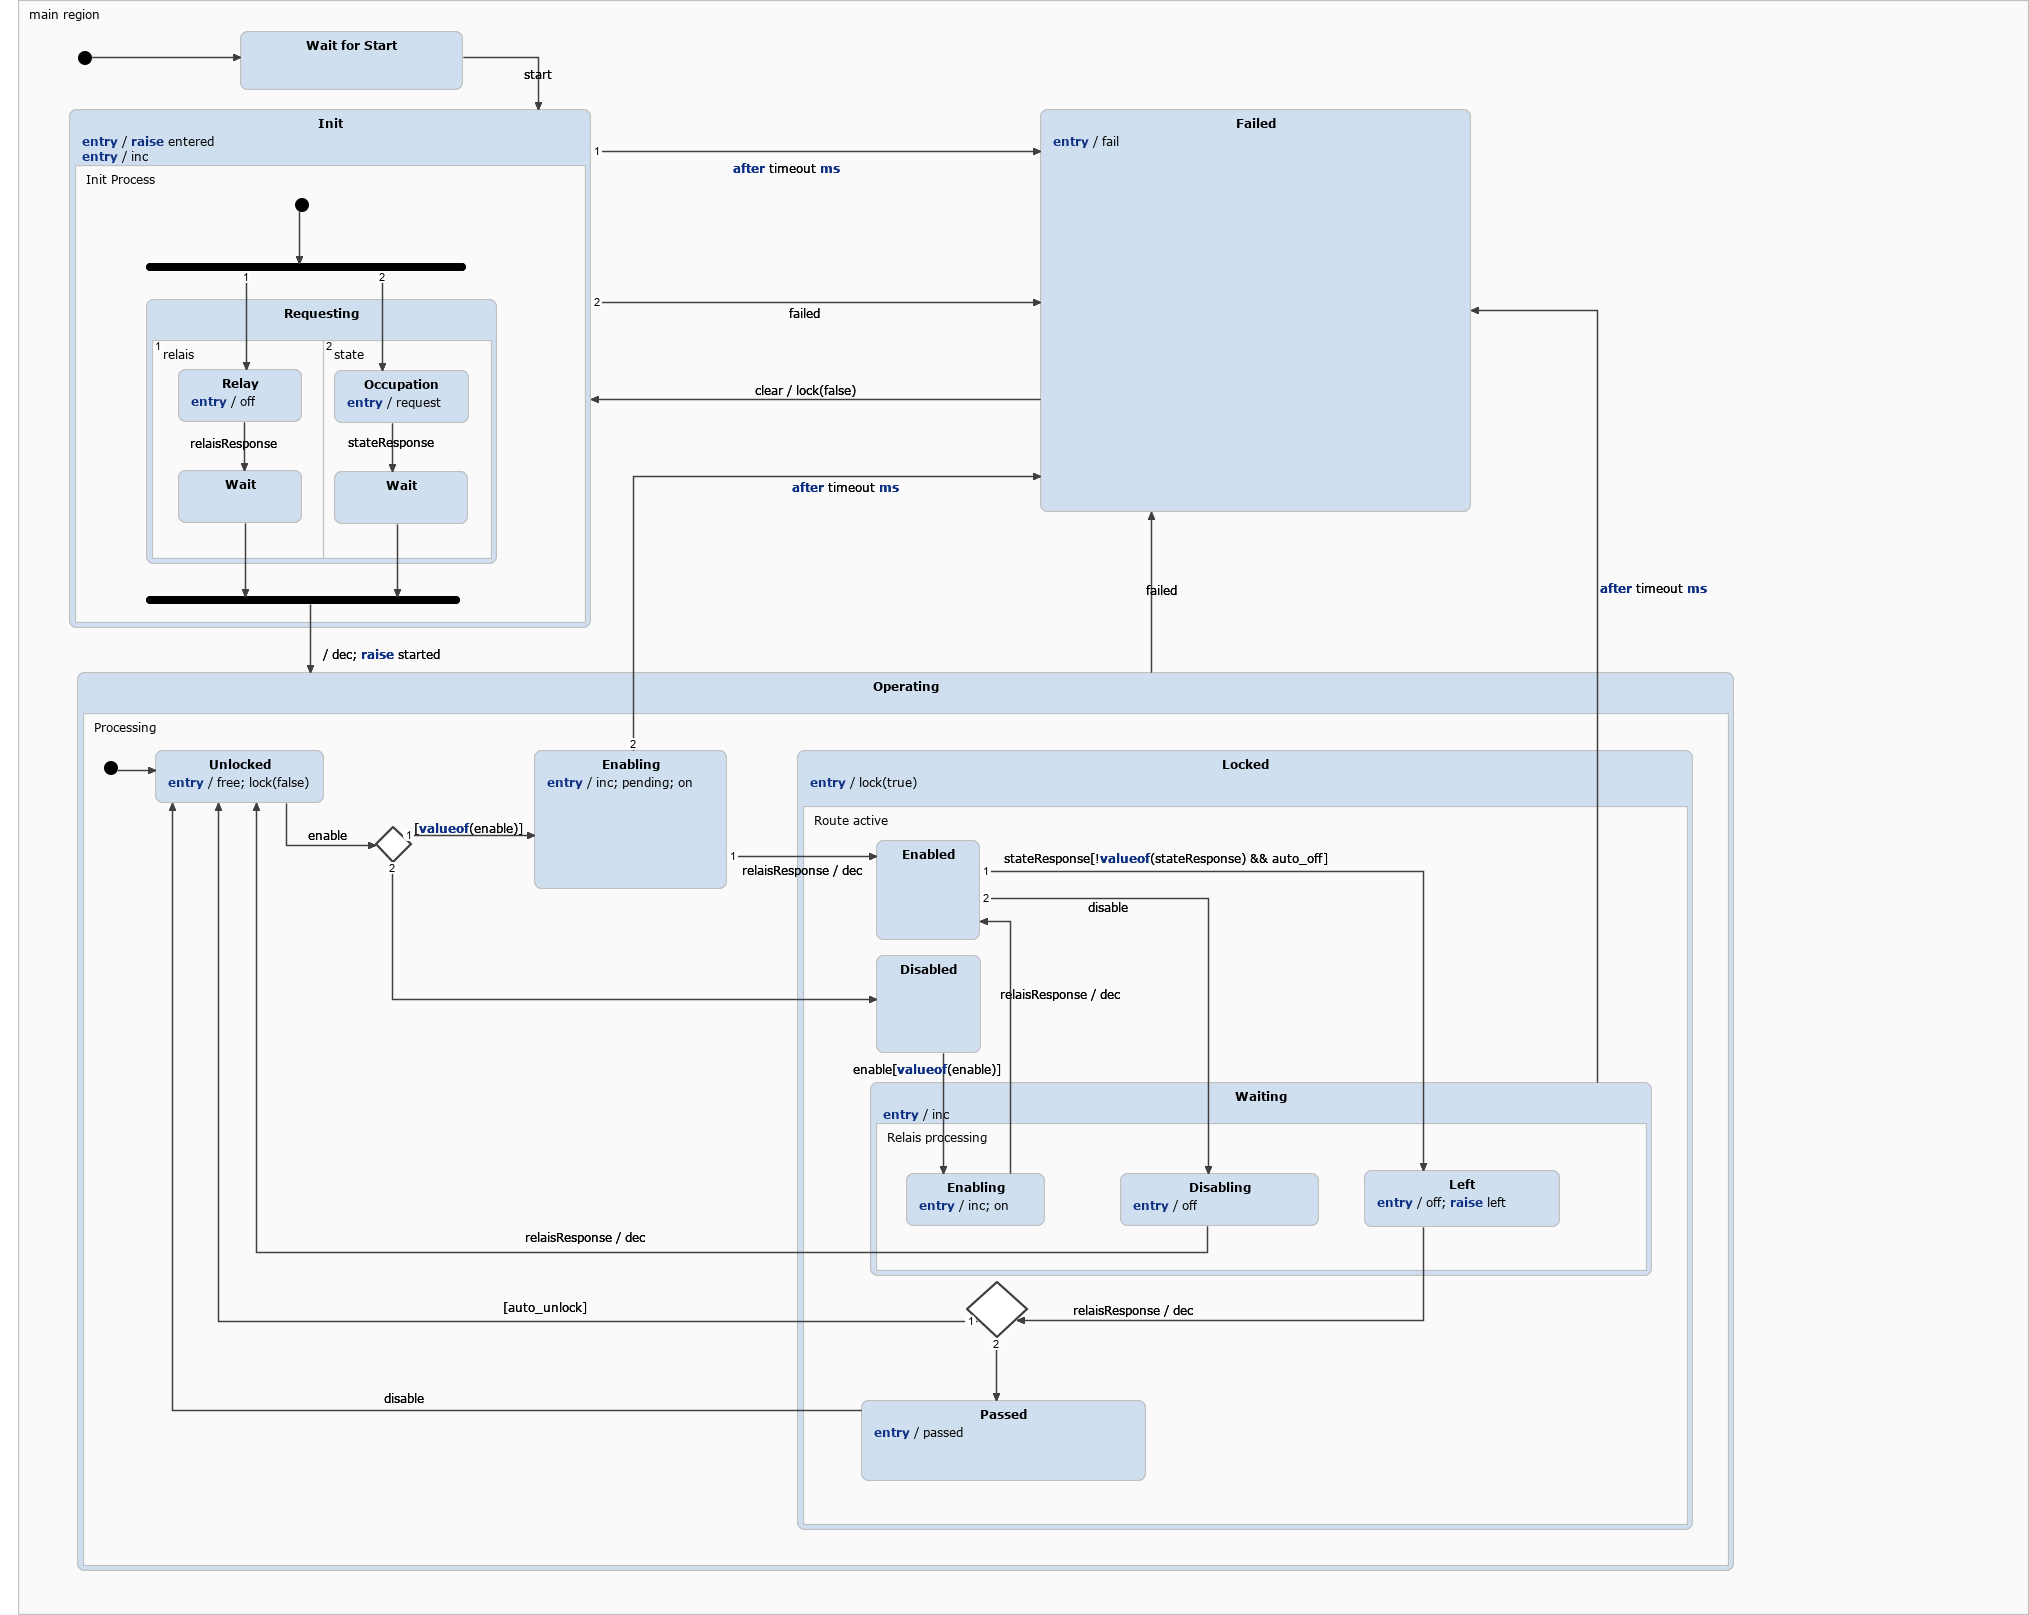
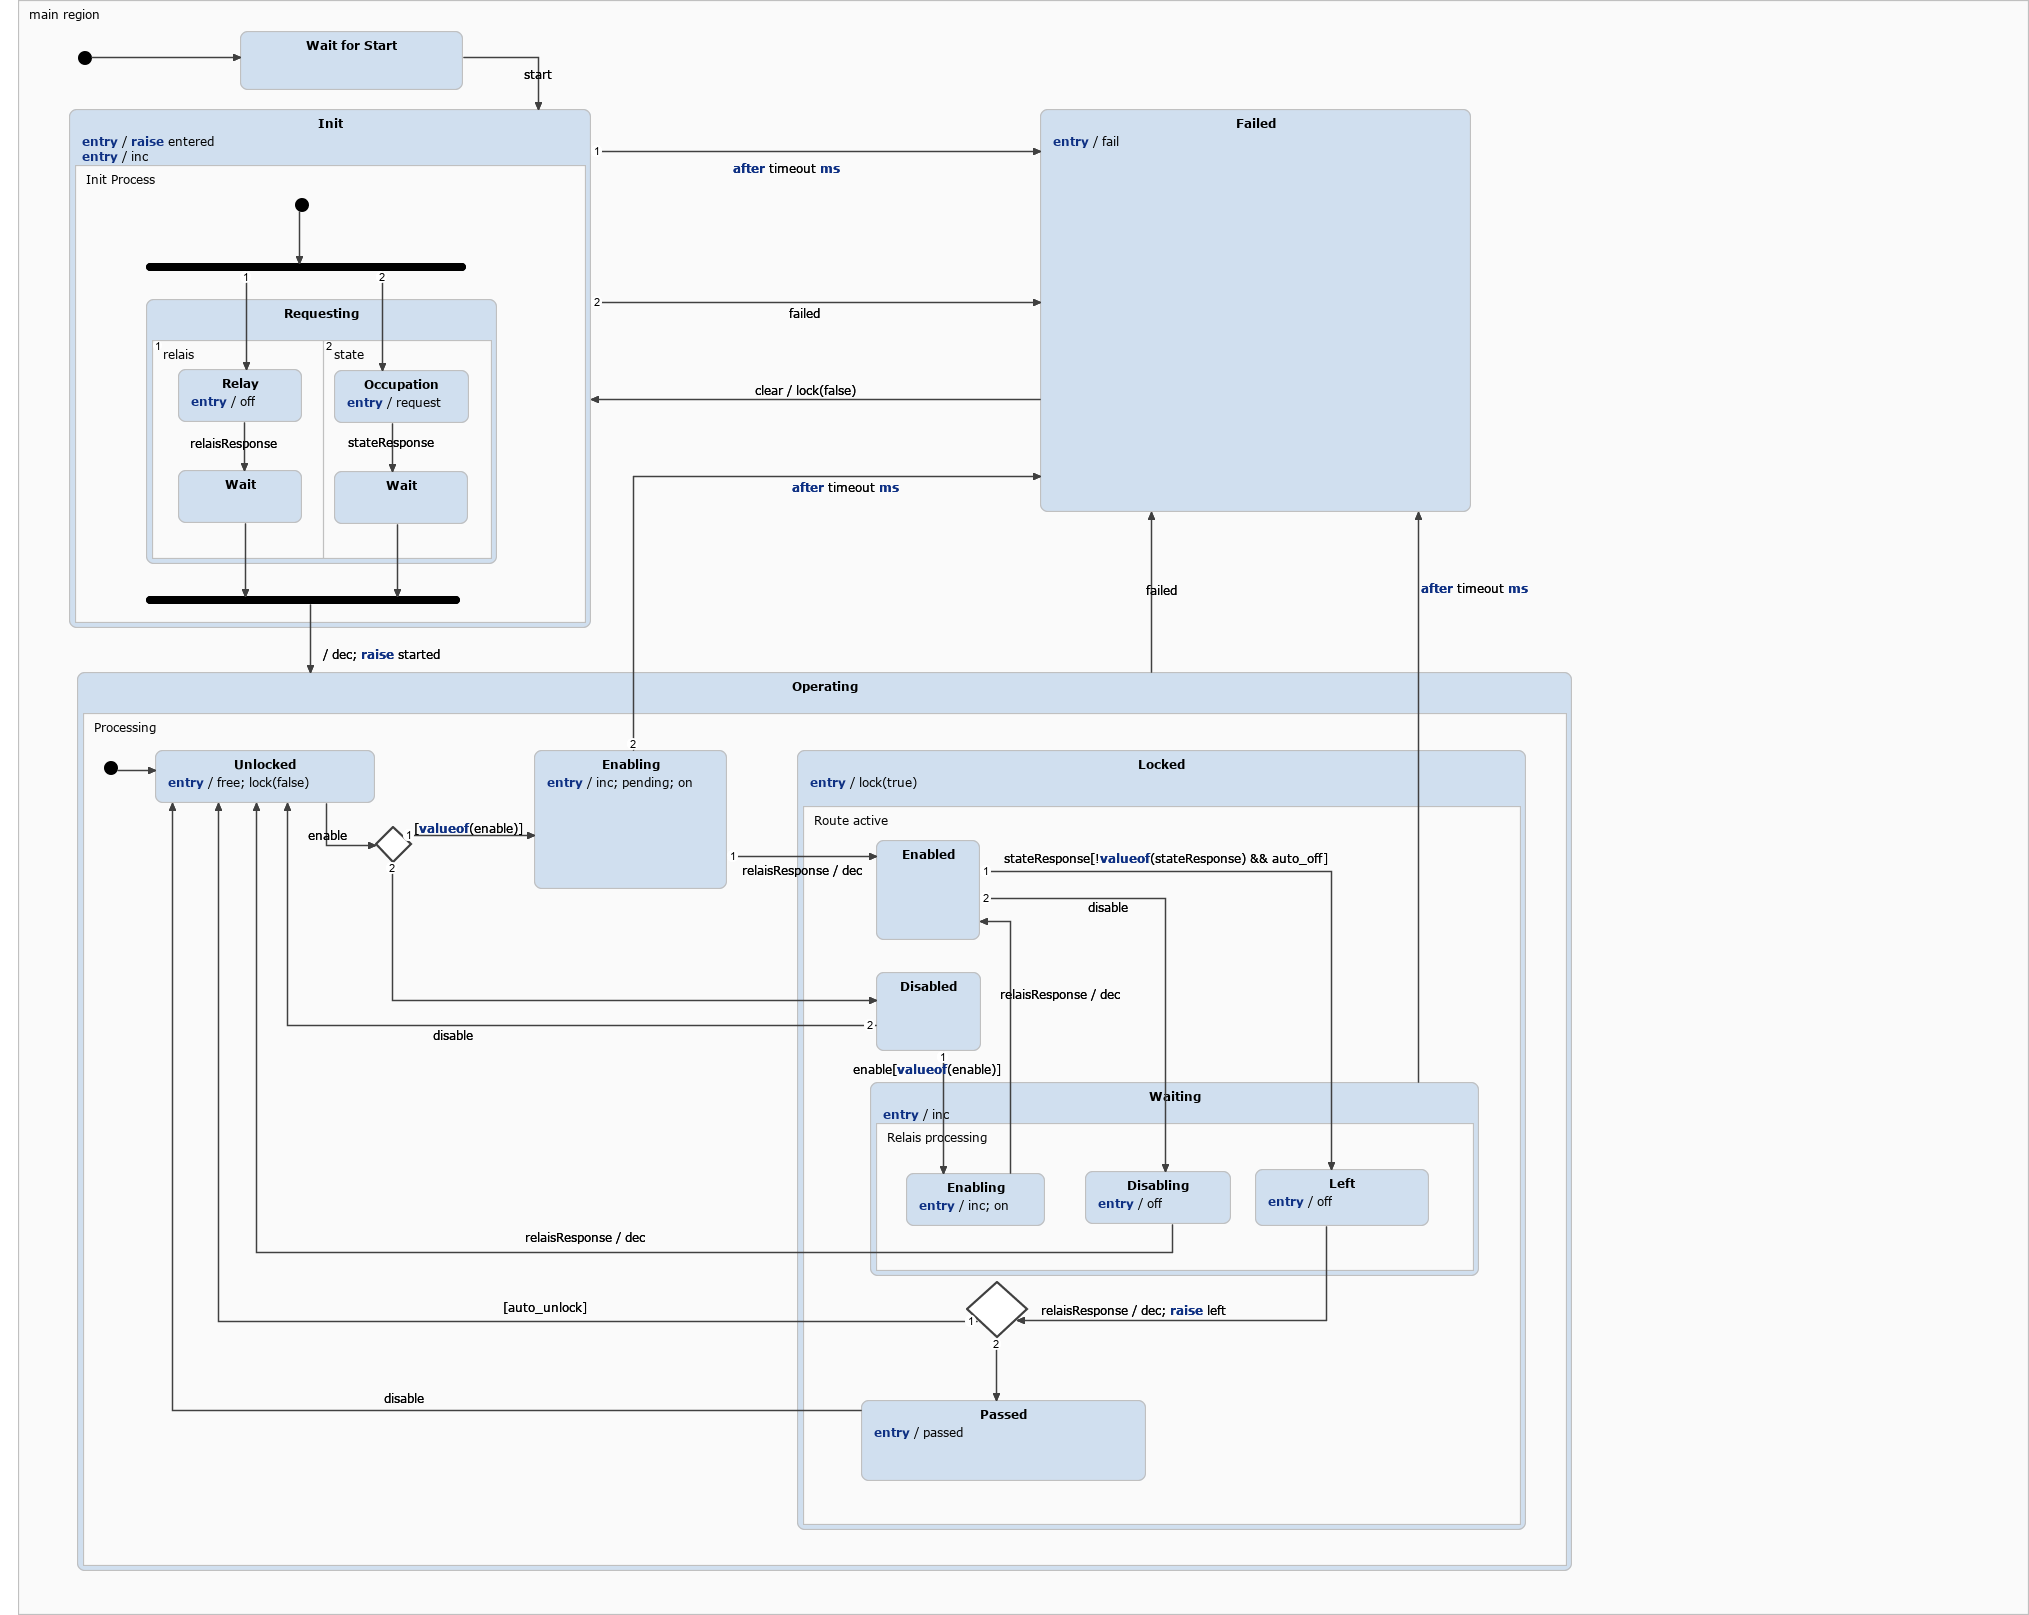
Removed some bugs from statemachine.

diff --git a/statecharts/SectionStatechart.cpp b/statecharts/SectionStatechart.cpp
@@ -442,7 +442,6 @@ namespace mrw
 		{
 			/* Entry action for state 'Left'. */
 			ifaceOperationCallback->off();
-			emit left();
 		}
 
 		/* Entry action for state 'Disabling'. */
@@ -1478,6 +1477,7 @@ namespace mrw
 				{
 					exseq_main_region_Operating_Processing_Locked_Route_active_Waiting();
 					ifaceOperationCallback->dec();
+					emit left();
 					react_main_region_Operating_Processing_Locked_Route_active__choice_0();
 					transitioned_after = 0;
 				}
@@ -1549,6 +1549,16 @@ namespace mrw
 					enseq_main_region_Operating_Processing_Locked_Route_active_Waiting_Relais_processing_Enabling_default();
 					main_region_Operating_Processing_Locked_react(0);
 					transitioned_after = 0;
+				}
+				else
+				{
+					if (disable_raised)
+					{
+						exseq_main_region_Operating_Processing_Locked();
+						enseq_main_region_Operating_Processing_Unlocked_default();
+						main_region_Operating_react(0);
+						transitioned_after = 0;
+					}
 				}
 			}
 			/* If no transition was taken then execute local reactions */

diff --git a/track-control-ng/ctrl/sectioncontroller.cpp b/track-control-ng/ctrl/sectioncontroller.cpp
@@ -178,6 +178,7 @@ void SectionController::request()
 void SectionController::passed()
 {
 	section()->setState(SectionState::PASSED);
+	emit update();
 }
 
 void SectionController::free()
